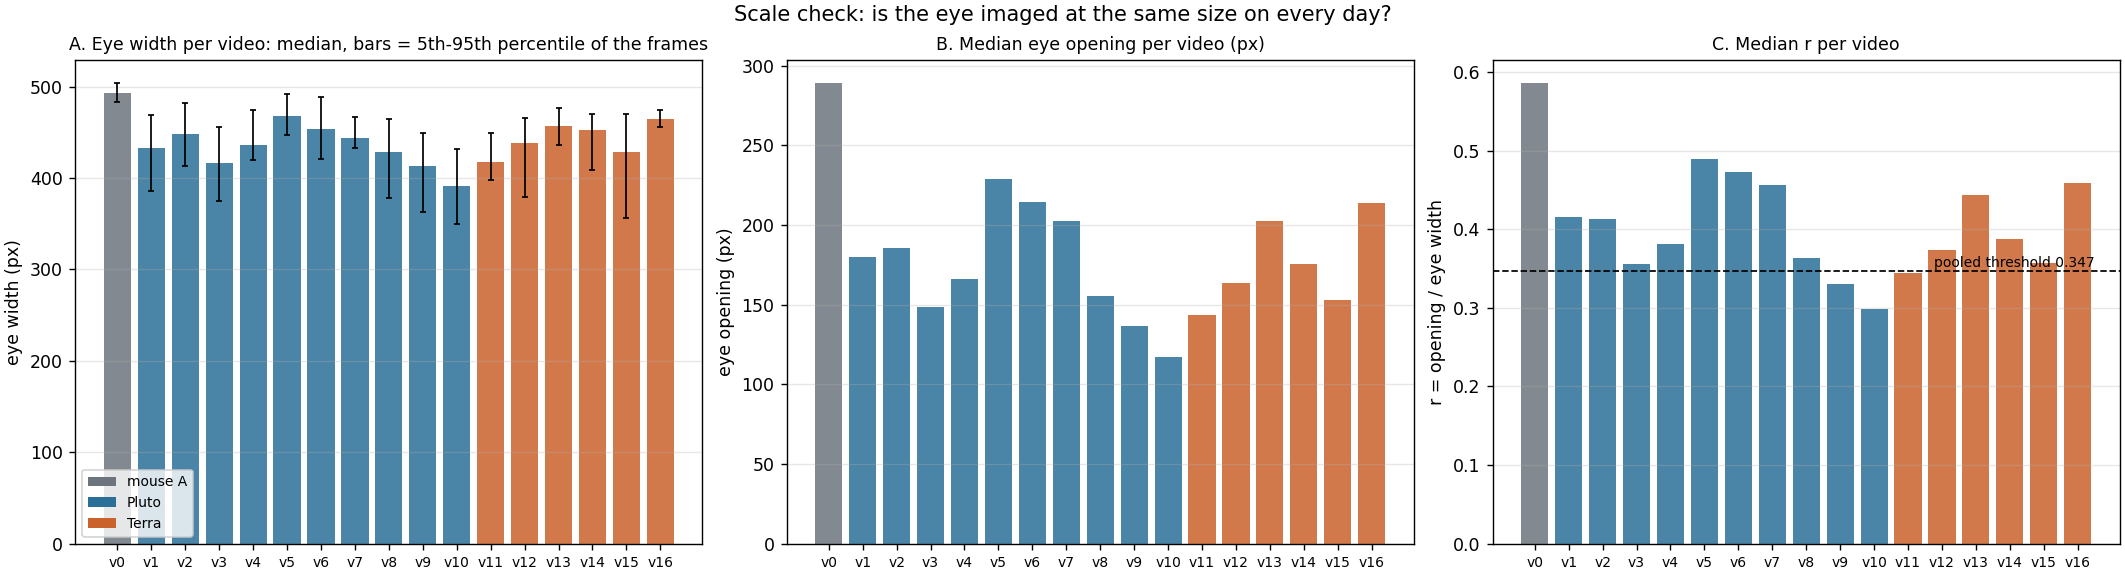
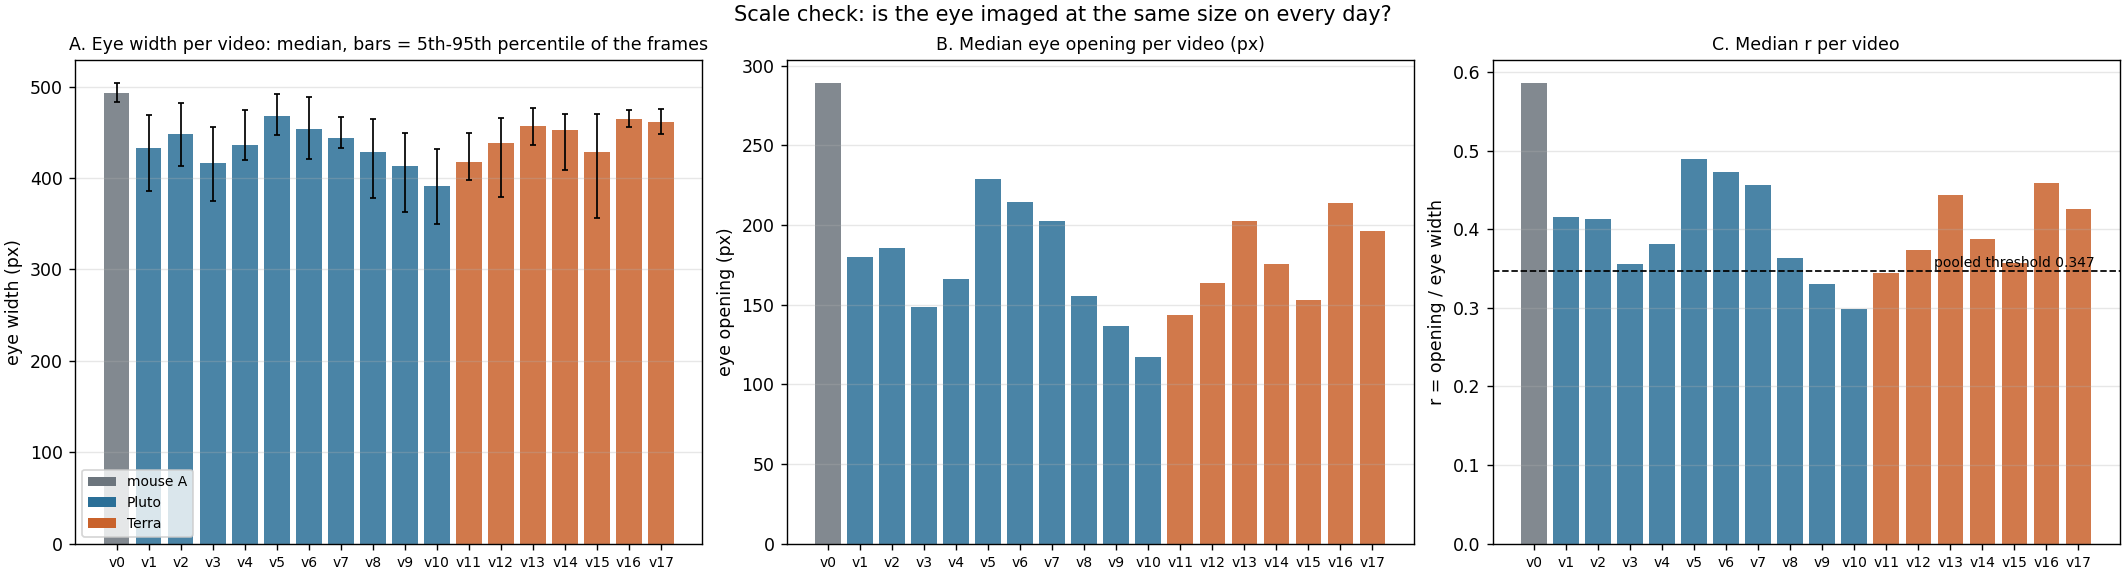
Per-mouse eye-opening threshold rerun with video 17 (thresholds unchanged)

Changed region(s): [[0.0621, 0.1774, 0.3106, 1.0], [0.4038, 0.3252, 0.6522, 1.0], [0.7144, 0.2661, 0.9939, 1.0]]

diff --git a/v2_new_pupil_top_video_scaling/results/blink_eyelid_distance/per_mouse_threshold/README.md b/v2_new_pupil_top_video_scaling/results/blink_eyelid_distance/per_mouse_threshold/README.md
@@ -1,6 +1,6 @@
-# One eye-opening threshold per mouse - first look (2026-10-10)
+# One eye-opening threshold per mouse - first look (2026-10-10; rerun 2026-10-11 with video 17)
 
-**Basic information.** Videos 0-16 (17 finished videos: mouse A 1, Pluto 10, Terra 6). Input: the whole-video prediction of
+**Basic information.** Videos 0-17 (18 finished videos: mouse A 1, Pluto 10, Terra 7). Input: the whole-video prediction of
 each video's plateau model (final snapshot). Truth for choosing a threshold: the 239 blind single-frame verdicts of
 2026-10-06 (videos 0-13 only; 211 of them on frames with plausible eyelid points). Script:
 `../../../scripts/blink_per_mouse_threshold.py`. No model was trained and no existing result was changed. This folder is
@@ -28,7 +28,7 @@ Chosen on the trusted judged frames of each mouse by the criterion of the first 
 
 - The pooled optimum is a flat range: 0.347 (the first-round value) and 0.365 give the same accuracy (90.5%).
 - Pluto and Terra come out different (0.365 against 0.299), but Terra's value rests on 48 frames of 3 videos and moves
-  between 0.296 and 0.356 when one video is left out. It is not settled; verdicts on videos 14-16 would be needed.
+  between 0.296 and 0.356 when one video is left out. It is not settled; verdicts on videos 14-17 would be needed.
 - Mouse A has one video and no judged not-open frame; the pooled 0.347 is used for it in the tables below.
 
 ## Share of frames with a small opening (`small_opening_share_per_video.csv`)
@@ -52,6 +52,7 @@ Chosen on the trusted judged frames of each mouse by the criterion of the first 
 | 14 | Terra | 0.387 | 6.5% | 23.0% | 59.8% | 6.4% |
 | 15 | Terra | 0.357 | 35.1% | 47.7% | 59.4% | 34.8% |
 | 16 | Terra | 0.459 | 0.1% | 0.4% | 2.2% | 0.1% |
+| 17 | Terra | 0.426 | 0.7% | 1.7% | 13.7% | 0.7% |
 
 The share depends strongly on the threshold wherever the video's median r is close to it: video 11 has 8% of its frames
 below 0.299 and 54% below 0.347. On such videos a threshold splits the bulk of the distribution, so the continuous r
